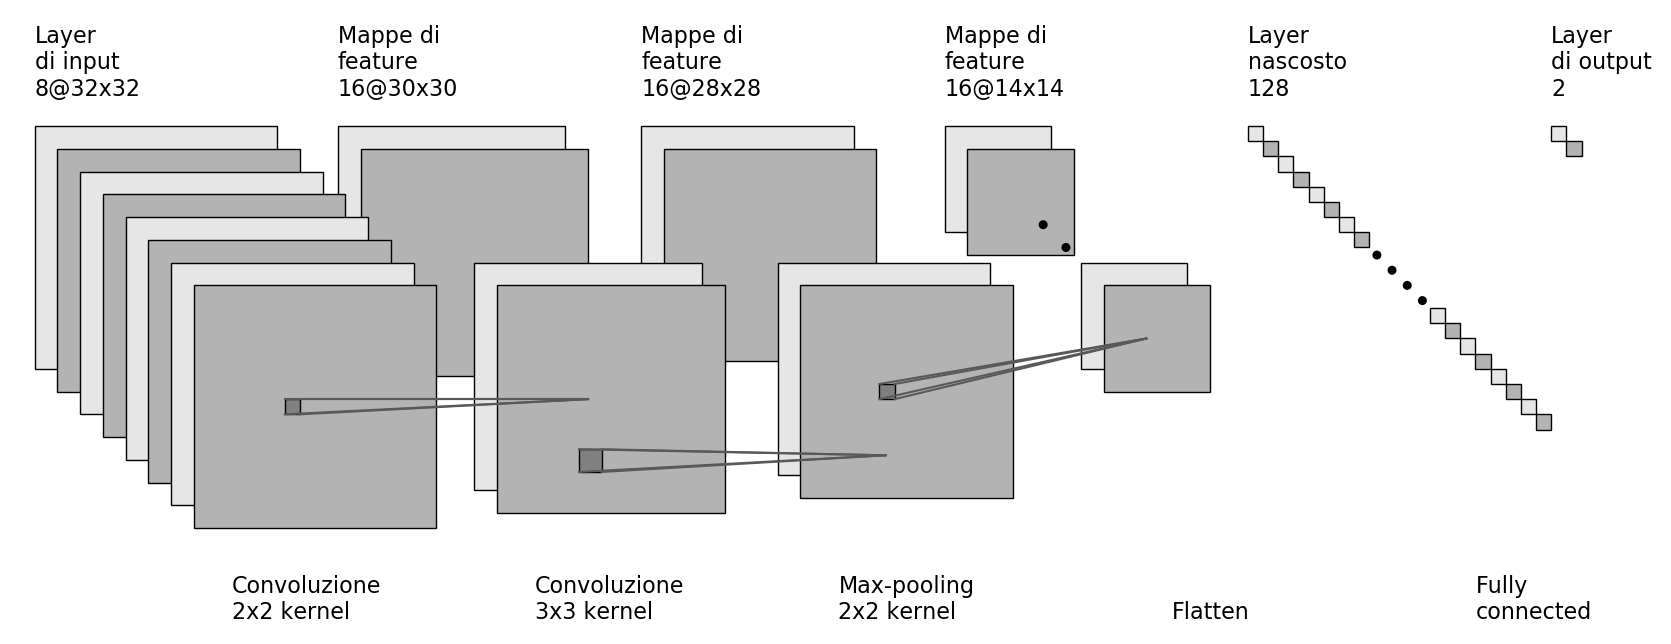
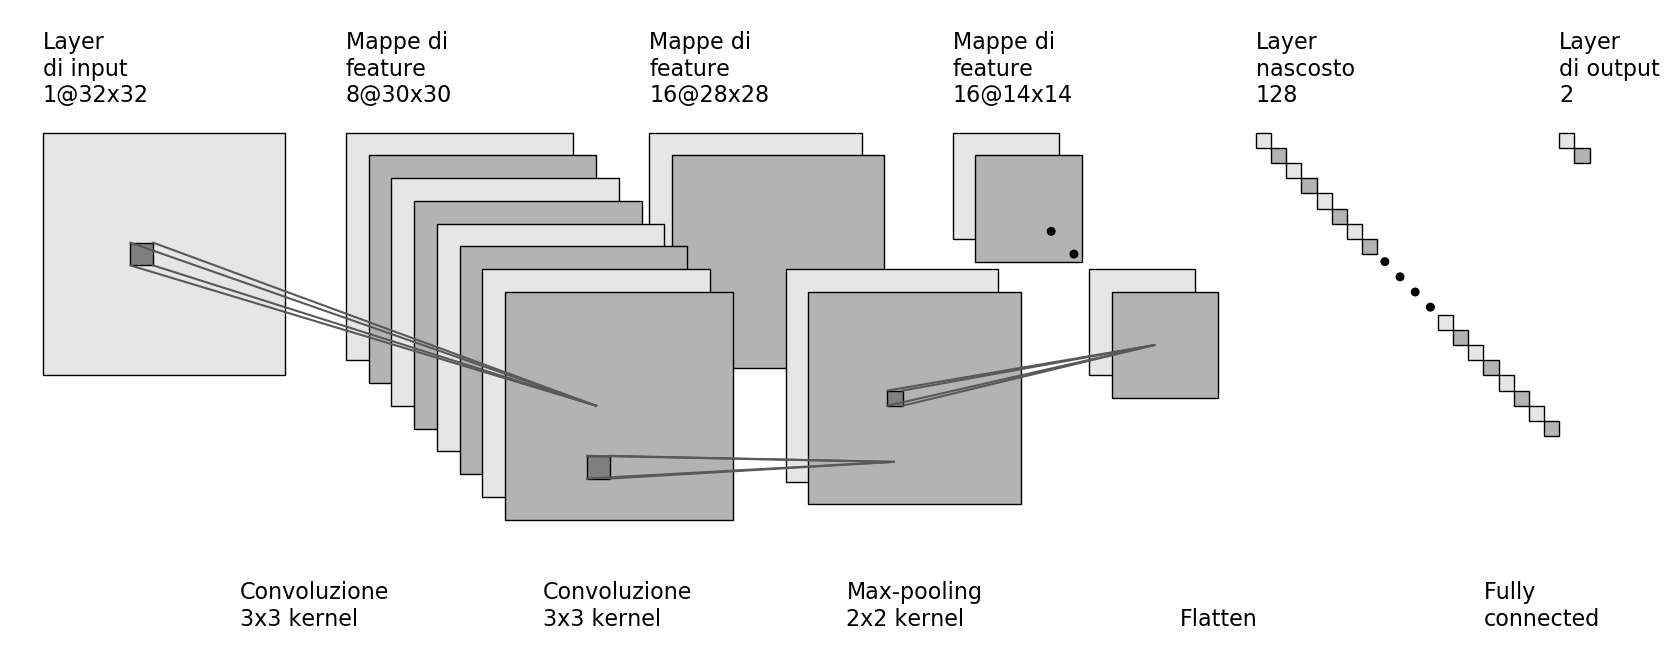
Update cnn.png, add reference to image caption

diff --git a/relazione/relazione.tex b/relazione/relazione.tex
@@ -594,7 +594,7 @@ La rete viene sempre allenata su configurazioni del modello di Ising su reticolo
 
 \begin{figure}[ht]
  \centerline{\includegraphics[scale=0.35]{cnn.png}}
- \caption{Schema di una rete convoluzionale effettivamente utilizzata per l'analisi di un sistema XY su reticolo $32\times32$, sono stati tralasciati i layer \emph{dropout}.}
+  \caption{Schema di una rete convoluzionale effettivamente utilizzata per l'analisi di un sistema XY su reticolo $32\times32$, sono stati tralasciati i layer \emph{dropout}. Immagine generata adattando il codice disponibile presso \url{https://github.com/gwding/draw_convnet}.}
  \label{fig:cnn}
 \end{figure}
 
